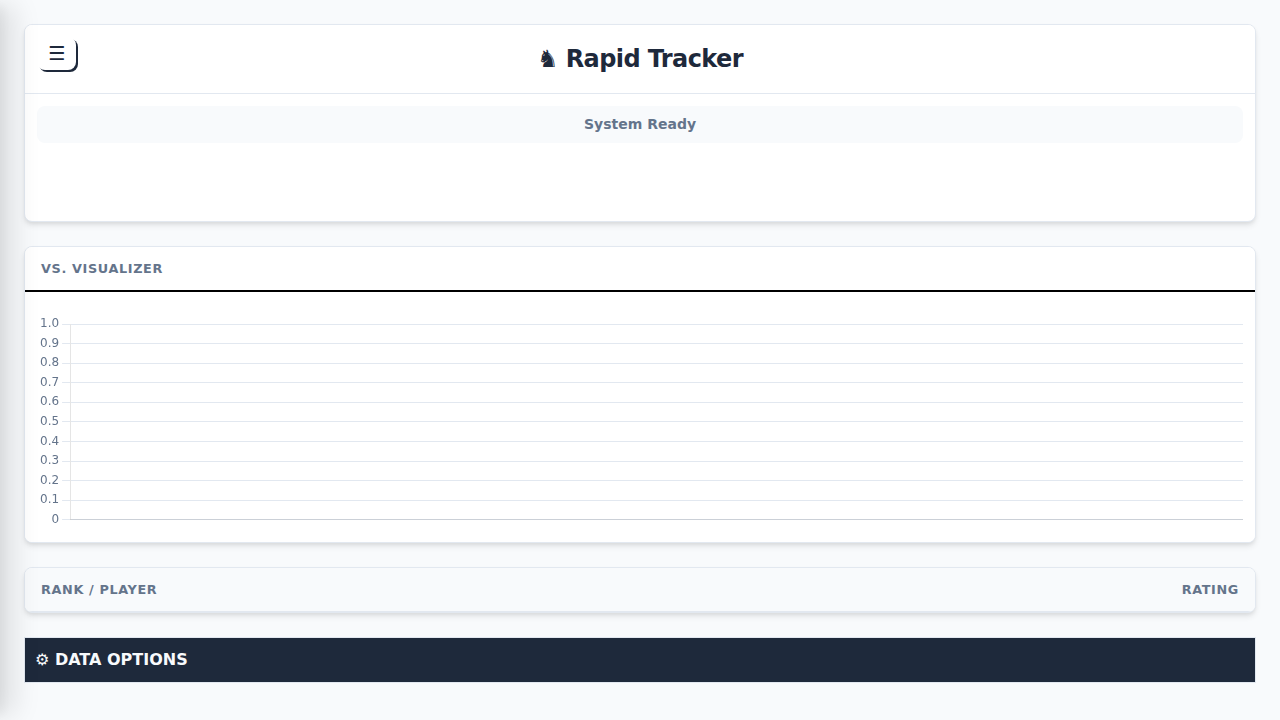
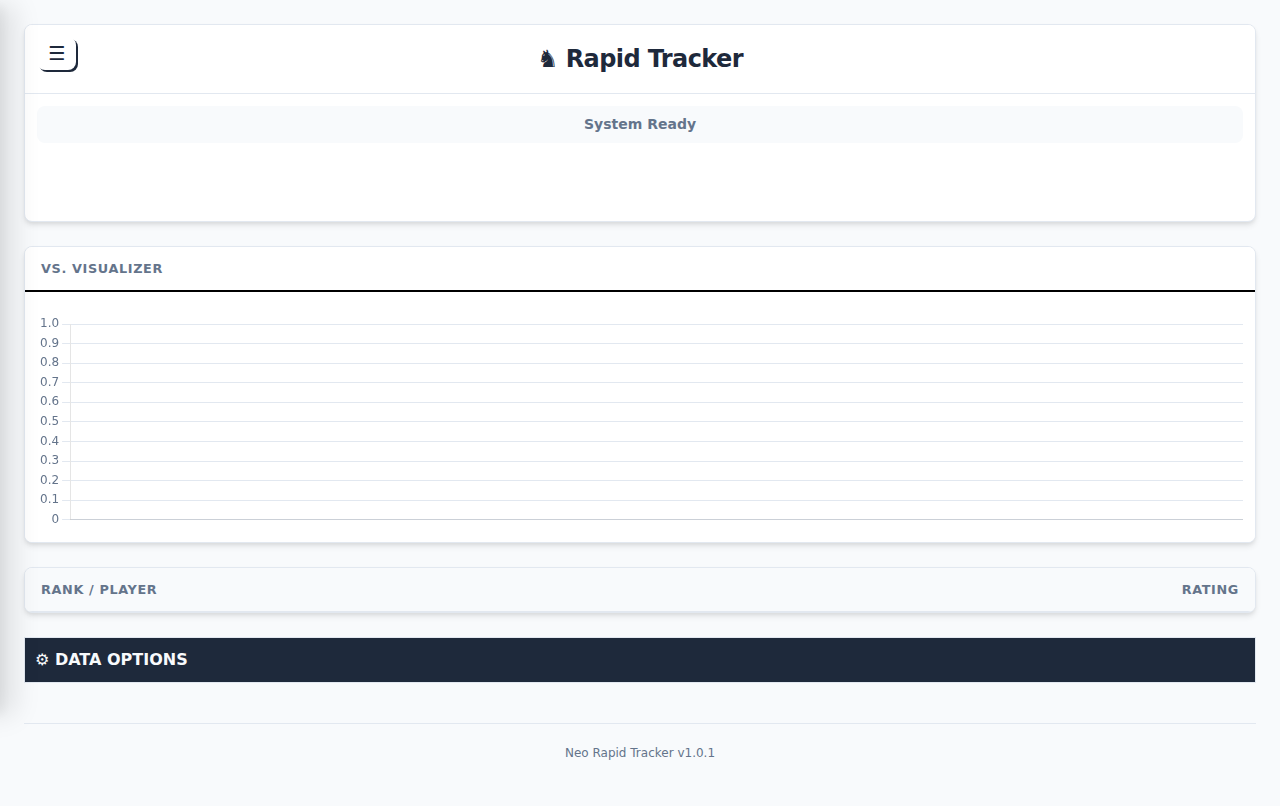
Add footer with version number and update script
- Added footer to index.html with version v1.0.1
- Added .footer CSS class for styling
- Created update_version.py to increment version number

diff --git a/index.html b/index.html
@@ -448,6 +448,16 @@
             .input-row { flex-direction: column; }
             .btn-add { width: 100%; }
         }
+
+        /* === FOOTER === */
+        .footer {
+            text-align: center;
+            padding: 20px;
+            color: var(--text-secondary);
+            font-size: 0.75rem;
+            margin-top: 40px;
+            border-top: 1px solid var(--border-color);
+        }
     </style>
 </head>
 <body>
@@ -537,6 +547,10 @@
         </div>
     </div>
     <div id="overlay" class="overlay"></div>
+
+    <footer class="footer">
+        Neo Rapid Tracker <span id="version-number">v1.0.1</span>
+    </footer>
 
     <script>
         // === STATE ===

diff --git a/update_version.py b/update_version.py
@@ -1,0 +1,37 @@
+import re
+import datetime
+
+def update_version():
+    filepath = 'index.html'
+    with open(filepath, 'r') as f:
+        content = f.read()
+
+    # Regex to find the version span
+    # <span id="version-number">v1.0.0</span>
+    pattern = r'(<span id="version-number">v)(\d+)\.(\d+)\.(\d+)(</span>)'
+
+    match = re.search(pattern, content)
+    if match:
+        prefix = match.group(1)
+        major = int(match.group(2))
+        minor = int(match.group(3))
+        patch = int(match.group(4))
+        suffix = match.group(5)
+
+        old_version = f"{major}.{minor}.{patch}"
+
+        # Increment patch version
+        new_patch = patch + 1
+        new_version = f"{major}.{minor}.{new_patch}"
+
+        new_content = re.sub(pattern, f"{prefix}{new_version}{suffix}", content)
+
+        with open(filepath, 'w') as f:
+            f.write(new_content)
+
+        print(f"Updated version from v{old_version} to v{new_version}")
+    else:
+        print("Version pattern not found in index.html")
+
+if __name__ == "__main__":
+    update_version()
